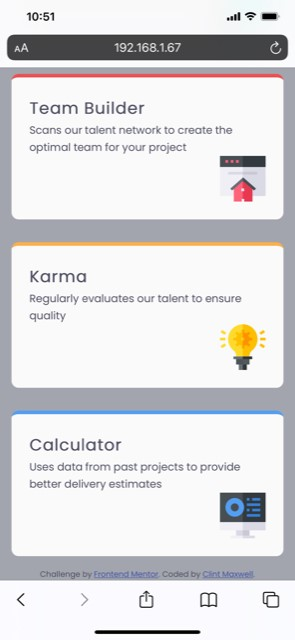
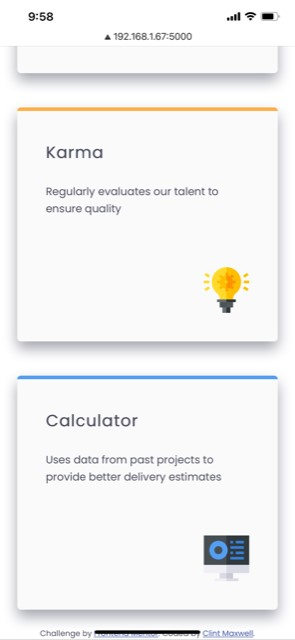
Updated screenshots, HTML & CSS.

diff --git a/css/stylesheet.css b/css/stylesheet.css
@@ -21,7 +21,7 @@ h2 {
 
 .top {
   text-align: center;
-  margin: 4rem 30rem 4rem 30rem;
+  margin: 4rem 30rem 3rem 30rem;
 }
 
 .top::first-line {
@@ -42,7 +42,7 @@ h2 {
 .pic {
   display: flex;
   align-items: flex-end;
-  margin-top: 100px;
+  margin-top: 70px;
   justify-content: flex-end;
 }
 
@@ -53,7 +53,7 @@ h2 {
     background-color: hsl(0, 0%, 98%); /*Very Light Gray*/
     margin: 1.5rem;
     border-radius: 5px;
-    padding: 45px 45px 45px 45px;
+    padding: 40px;
     box-shadow: 0px 10px 20px hsl(229, 6%, 66%); /*Grayish Blue*/
   }
 
@@ -82,11 +82,6 @@ h2 {
   }
 
 @media only screen and (min-width: 960px) {  
-  .top {
-    text-align: center;
-    margin: 4rem 30rem 4rem 30rem;
-  }
-
   .cards {
     margin: 5fr 5fr auto 5fr;
     display: grid;

diff --git a/index.html b/index.html
@@ -25,6 +25,7 @@
 
       <div class="text">
         <h2>Supervisor</h2>
+        <br>
         <p>Monitors activity to identify project roadblocks</p>
       </div>
 
@@ -38,6 +39,7 @@
 
       <div class="text">
         <h2>Team Builder</h2>
+        <br>
         <p>Scans our talent network to create the optimal team for your project</p>
       </div>
 
@@ -51,6 +53,7 @@
 
       <div class="text">
         <h2>Karma</h2>
+        <br>
         <p>Regularly evaluates our talent to ensure quality</p>
       </div>
 
@@ -64,6 +67,7 @@
 
       <div class="text">
         <h2>Calculator</h2>
+        <br>
         <p>Uses data from past projects to provide better delivery estimates</p>
       </div>
 
